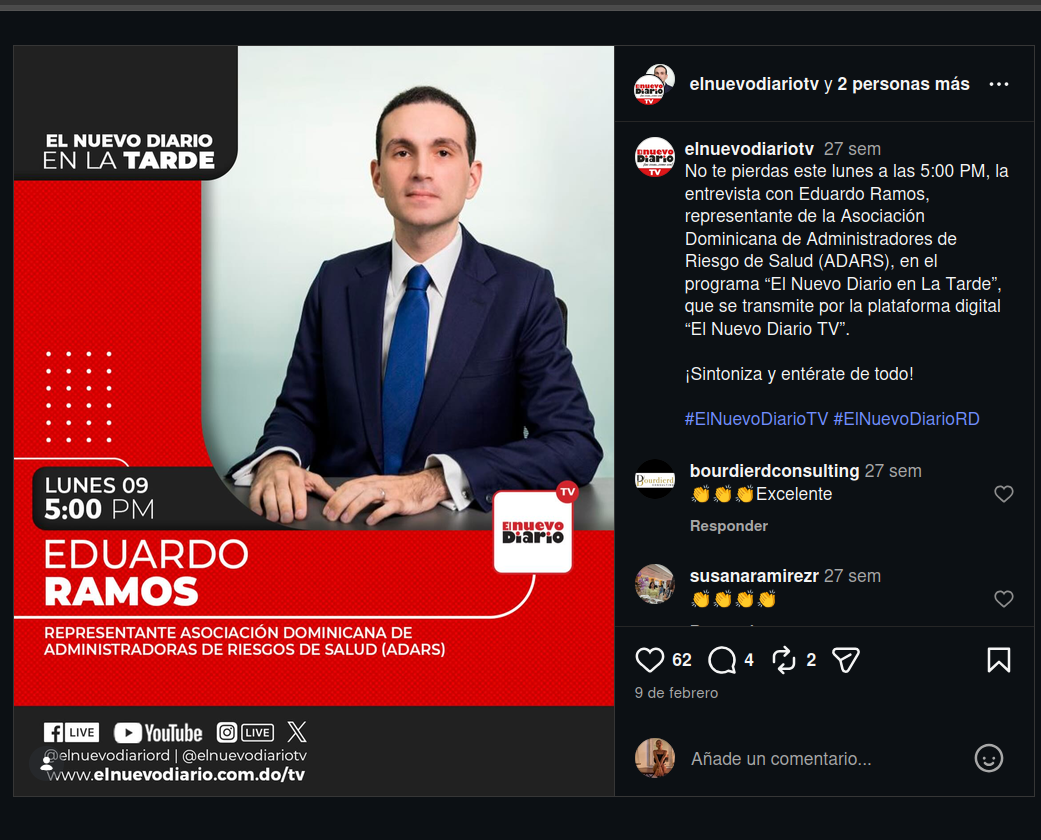
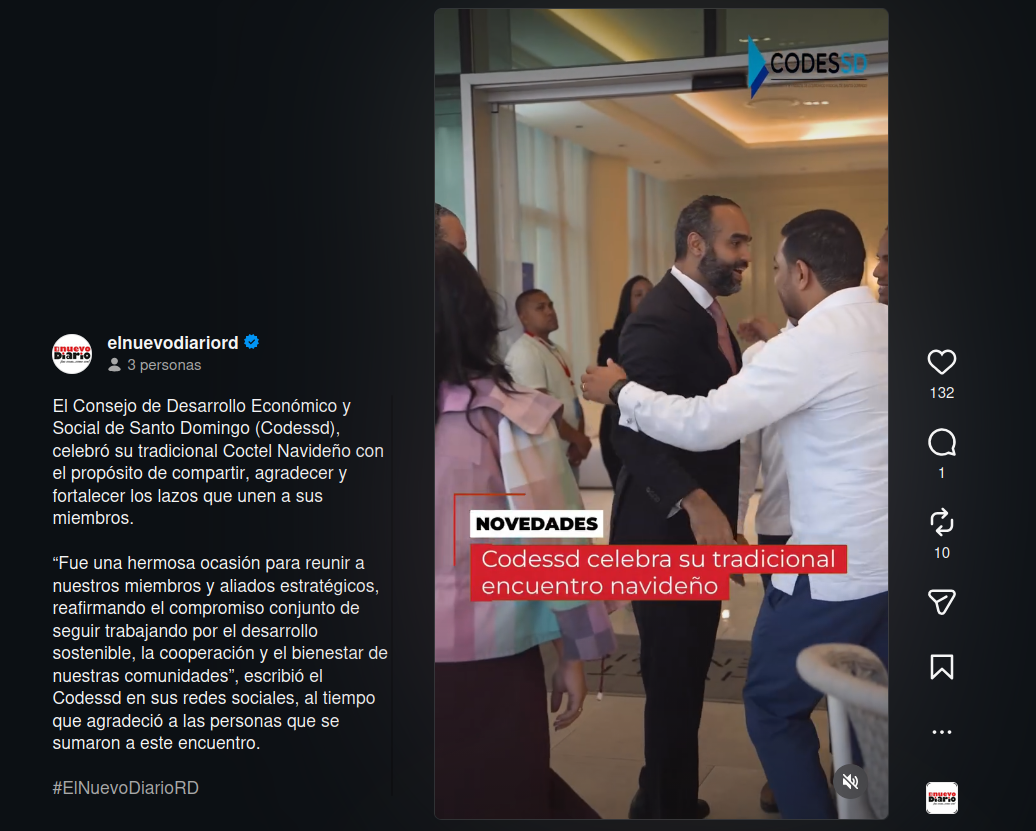
Sustituye T008 por la cobertura del encuentro navideño del Codessd
La ficha anterior era la tarjeta de un programa del propio periódico:
autopromoción editorial, y por tanto un caso limítrofe con el cuarto
criterio de exclusión. La nueva conserva el mismo tipo de objeto
—entidad como agente, función propagandística secundaria— sin que el
medio se promueva a sí mismo.

Codificada con la regla de unidad de análisis vigente: voz monofónica
periodística, sin verbo declarativo en el titular, y la voz del Codessd
registrada como fuente contextual.

diff --git a/herramientas/fase10_reemplazo_t008.py b/herramientas/fase10_reemplazo_t008.py
@@ -1,0 +1,119 @@
+#!/usr/bin/env python3
+"""Fase 10 — Sustitución de T008.
+
+La ficha anterior de T008 («EDUARDO RAMOS. Representante Asociación Dominicana
+de Administradoras de Riesgos de Salud (ADARS)») era la tarjeta de un programa
+del propio periódico: autopromoción editorial, y por tanto un caso limítrofe
+con el cuarto criterio de exclusión. Se sustituye por una pieza de cobertura de
+agenda institucional que conserva el mismo tipo de objeto —entidad como agente,
+función propagandística secundaria— sin que el medio se promueva a sí mismo.
+
+Nueva T008: «Codessd celebra su tradicional encuentro navideño», 22/12/2025.
+
+Idempotente.
+"""
+import json
+import pathlib
+
+CORPUS = pathlib.Path(__file__).resolve().parent.parent / 'Datos' / 'gemini-code-1787586644203.json'
+
+FICHA = {
+    "id": "3f5a0c21-9d64-4e18-b7ac-52c0e1f9a7d3",
+    "codigo": "T008",
+    "fecha": "2025-12-22",
+    "tipoEntrada": "Reel",
+    "seccion": "Social/Comunidad",
+    "titular": "Codessd celebra su tradicional encuentro navideño",
+    "enlace": "https://www.instagram.com/reels/DSkjyC6DrZS/",
+    "tieneTitularClaro": True,
+    "esRepetidoSinCambios": False,
+    "esComunicadoSinEstructura": False,
+    "esPublicitario": False,
+    "sinTitularEscrito": False,
+    "modalidad": ["Enunciativa"],
+    "estructuraSintactica": "Simple",
+    "sintesis": ["Siglas y acrónimos", "Personificación sintáctica"],
+    "deixis": ["Institucional", "Temporal"],
+    "cargaLexica": ["Estándar"],
+    "adjetivacion": "Adjetivos calificativos",
+    "figuras": ["Metonimia", "Personificación"],
+    "polifonia": "Voz monofónica periodística",
+    "actoHabla": ["Asertivo"],
+    "captacion": ["Promoción institucional", "Incompleción informativa"],
+    "oralidad": ["Ninguno evidente"],
+    "densidadEmoji": "0",
+    "funcionEmoji": "No aplica",
+    "coherencia": "Convergente",
+    "funcionDominante": ["Informativa", "Propagandística/Persuasiva"],
+    "funcionComunicativa": (
+        "Informativa de agenda institucional / persuasiva secundaria "
+        "(legitimación por tradición y proyección de cohesión gremial)"
+    ),
+    "interpretacion": (
+        "El titular reproduce el patrón de la cobertura de agenda institucional: sujeto "
+        "colectivo, verbo de acción en presente y complemento que nombra el acto sin "
+        "describirlo. La estructura es simple y no hay verbo declarativo ni marca de "
+        "atribución dentro de la unidad de análisis, de modo que el medio asume el enunciado "
+        "en voz propia y la responsabilidad enunciativa recae íntegramente en el periódico.\n\n"
+        "La sigla «Codessd» concentra la operación de síntesis. Siete letras sustituyen a "
+        "«Consejo de Desarrollo Económico y Social de Santo Domingo», y con ellas el titular da "
+        "por conocido un referente institucional que nunca desarrolla: en los términos de la "
+        "Teoría de la Relevancia, apuesta a que recuperar el referente cueste al lector menos "
+        "esfuerzo que procesar el nombre completo. El sujeto así abreviado actúa además como "
+        "agente de un verbo que solo ejecutan personas —«celebra»—, lo que produce la "
+        "personificación sintáctica de la entidad y, por metonimia, hace que el consejo ocupe "
+        "el lugar de sus miembros.\n\n"
+        "El adjetivo «tradicional» es la pieza persuasiva del enunciado: no describe el "
+        "encuentro, lo legitima. Al presentarlo como repetición de una costumbre establecida, "
+        "convierte un acto puntual en continuidad institucional y aporta el matiz de prestigio "
+        "que sostiene la función propagandística secundaria."
+    ),
+    "observaciones": (
+        "La pieza ilustra la cobertura de agenda que el medio dedica a organismos y gremios: el "
+        "titular no informa de un hecho noticioso en sentido estricto, sino que registra la "
+        "actividad social de una institución. El encuadre resultante, en el sentido de van Dijk, "
+        "es de cohesión gremial: la macroestructura no es «hubo un coctel» sino «el consejo "
+        "mantiene y renueva sus vínculos».\n\n"
+        "Conviene precisar por qué la ficha no cae bajo el cuarto criterio de exclusión. El "
+        "contenido es promocional en su efecto, porque proyecta la imagen de una entidad, pero "
+        "no es publicidad: no hay contraprestación visible, la pieza está firmada por la "
+        "redacción y el organismo promovido es un tercero y no el propio periódico. El criterio "
+        "excluye la publicidad y la promoción comercial, no la cobertura de agenda "
+        "institucional, que es precisamente uno de los usos del titular que esta investigación "
+        "se propone describir.\n\n"
+        "En el plano multimodal la coherencia entre texto e imagen es convergente: el rótulo "
+        "«NOVEDADES» sobre franja negra encabeza la tarjeta roja del titular y el Reel muestra "
+        "el salón del encuentro con el logotipo del Codessd sobre la puerta y los asistentes "
+        "saludándose, de modo que la gráfica documenta el mismo acto que el texto nombra.\n\n"
+        "Como contexto, y fuera de la unidad de análisis, el copy amplía con la cita textual que "
+        "el propio Codessd publicó en sus redes («Fue una hermosa ocasión para reunir a nuestros "
+        "miembros y aliados estratégicos…»), voz institucional que el titular no reproduce."
+    ),
+    "seccionSecundaria": "Gremial",
+    "actoHablaMatiz": "",
+    "actoHablaReferido": "No aplica",
+    "estructuraEspecificacion": "sujeto institucional + predicado transitivo",
+    "sintesisEspecificacion": "Codessd (Consejo de Desarrollo Económico y Social de Santo Domingo)",
+    "polifoniaEspecificacion": "[Fuente contextual: comunicación institucional del Codessd]",
+    "captacionEncuadre": "Cohesión gremial / imagen institucional",
+    "funcionEncuadre": "Agenda institucional",
+    "oralidadEspecificacion": "",
+    "adjetivacionEspecificacion": "tradicional (matiz legitimador); navideño",
+}
+
+
+def main() -> None:
+    fichas = json.loads(CORPUS.read_text(encoding='utf-8'))
+    orden = list(fichas[0].keys())
+    for i, ficha in enumerate(fichas):
+        if ficha['codigo'] == 'T008':
+            fichas[i] = {clave: FICHA[clave] for clave in orden}
+            break
+    else:
+        raise SystemExit('no se encontró T008')
+    CORPUS.write_text(json.dumps(fichas, ensure_ascii=False, indent=2) + '\n', encoding='utf-8')
+    print('T008 sustituida:', FICHA['titular'])
+
+
+if __name__ == '__main__':
+    main()

diff --git a/herramientas/auditoria.py b/herramientas/auditoria.py
@@ -55,7 +55,7 @@ EXCLAMATIVAS = re.compile(r'\b(qu[ée]|cu[áa]nto?s?|c[óo]mo|qui[ée]n|cu[áa]n
 SIGLA = re.compile(r'\b[A-ZÁÉÍÓÚÑ]{2,}\b')
 # Siglas lexicalizadas que el medio escribe en caja mixta y que, por tanto,
 # ningún patrón de mayúsculas puede reconocer (Minerd, Mescyt, Intrant…).
-SIGLAS_MIXTAS = re.compile(r'\b(Minerd|Mescyt|Intrant|Senasa|Indotel|Digesett|Inabie|Edeeste|Edesur|Edenorte)\b')
+SIGLAS_MIXTAS = re.compile(r'\b(Minerd|Mescyt|Codessd|Intrant|Senasa|Indotel|Digesett|Inabie|Edeeste|Edesur|Edenorte)\b')
 DECLARATIVO = re.compile(
     r'\b(dice|dijo|afirma|asegura|sostiene|se[ñn]ala|advierte|destaca|reitera|informa|'
     r'anuncia|explica|declara|aclara|revela|denuncia|pide|propone|critica|niega|'
